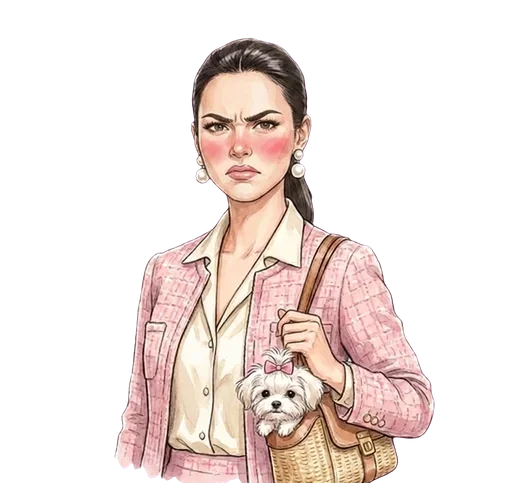
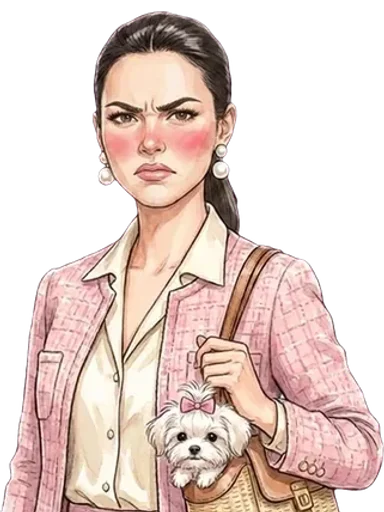
fix(vente): les portraits calme/fâché se superposent au changement d'humeur
Le pipeline coupe le bas de chaque portrait à la hauteur du sujet, donc
les deux états d'une paire ont des hauteurs différentes — et PersonaAvatar
centrait l'image dans sa boîte 138×138 : la variante la plus courte
« sautait » vers le haut (pire cas retraite_chineur-2, 15 % d'écart).
Ancrage bas (objectPosition) + retouches de Guillaume intégrées sur
canevas commun par paire (héritière mondaine, notable curieux 2,
retraité chineur 2) ; vendeur-antiquaire recalé bas-gauche (le fâché
lève le bras, +66 px à droite).

diff --git a/src/components/mobile/PersonaAvatar.tsx b/src/components/mobile/PersonaAvatar.tsx
@@ -126,6 +126,11 @@ const illustrationStyle: CSSProperties = {
   width: AVATAR_SIZE,
   height: AVATAR_SIZE,
   objectFit: "contain",
+  // Ancrage en bas : les variantes calme/fâchée d'un même persona sont
+  // coupées à des hauteurs différentes ; centrées, la plus courte « saute »
+  // vers le haut au changement d'humeur. Le bas du sujet est l'ancre commune
+  // (cf. straightenBottom dans generate-client-personas.mjs).
+  objectPosition: "center bottom",
   filter: "drop-shadow(0 4px 6px rgba(0,0,0,0.25))",
 };
 
